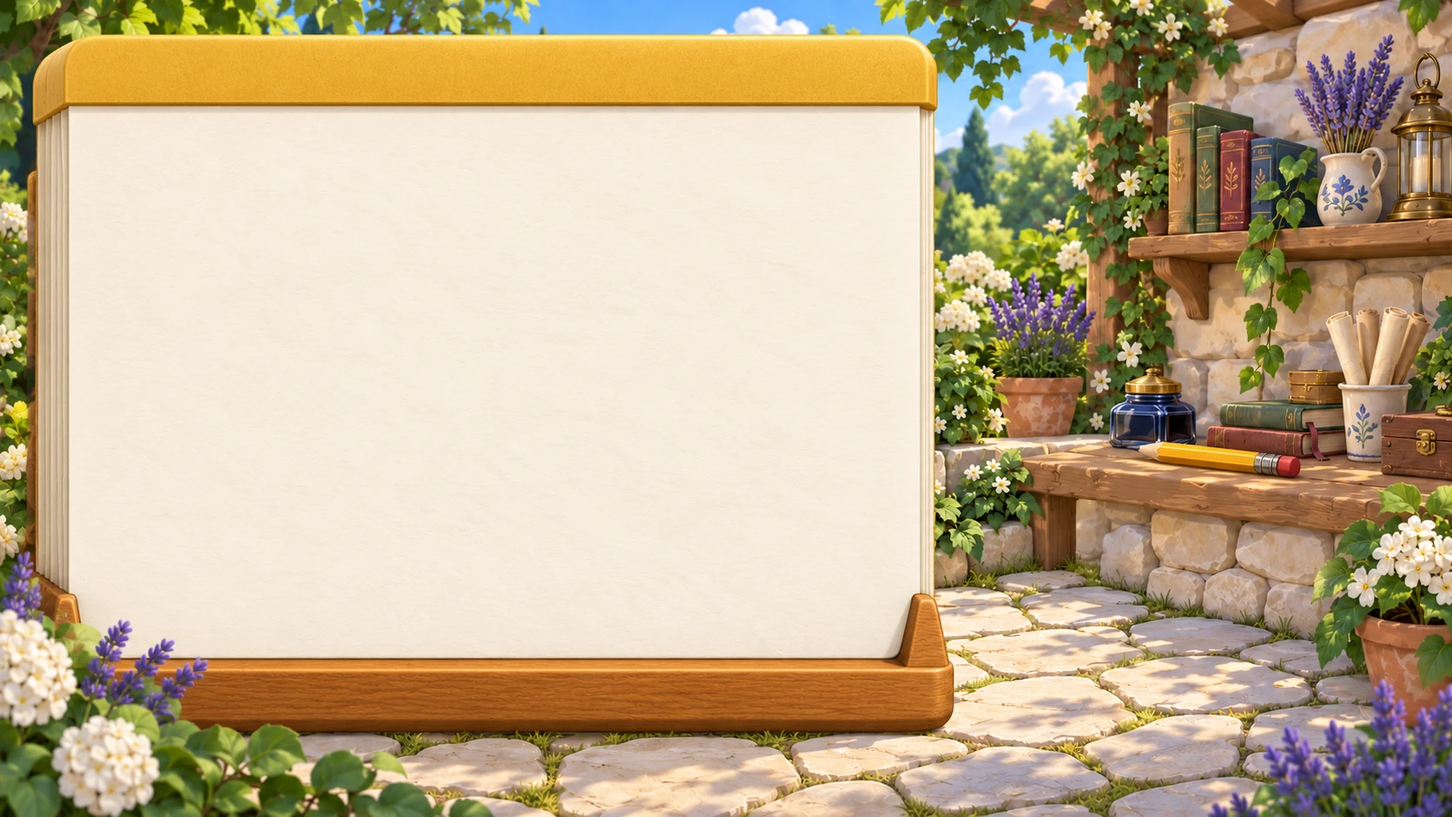
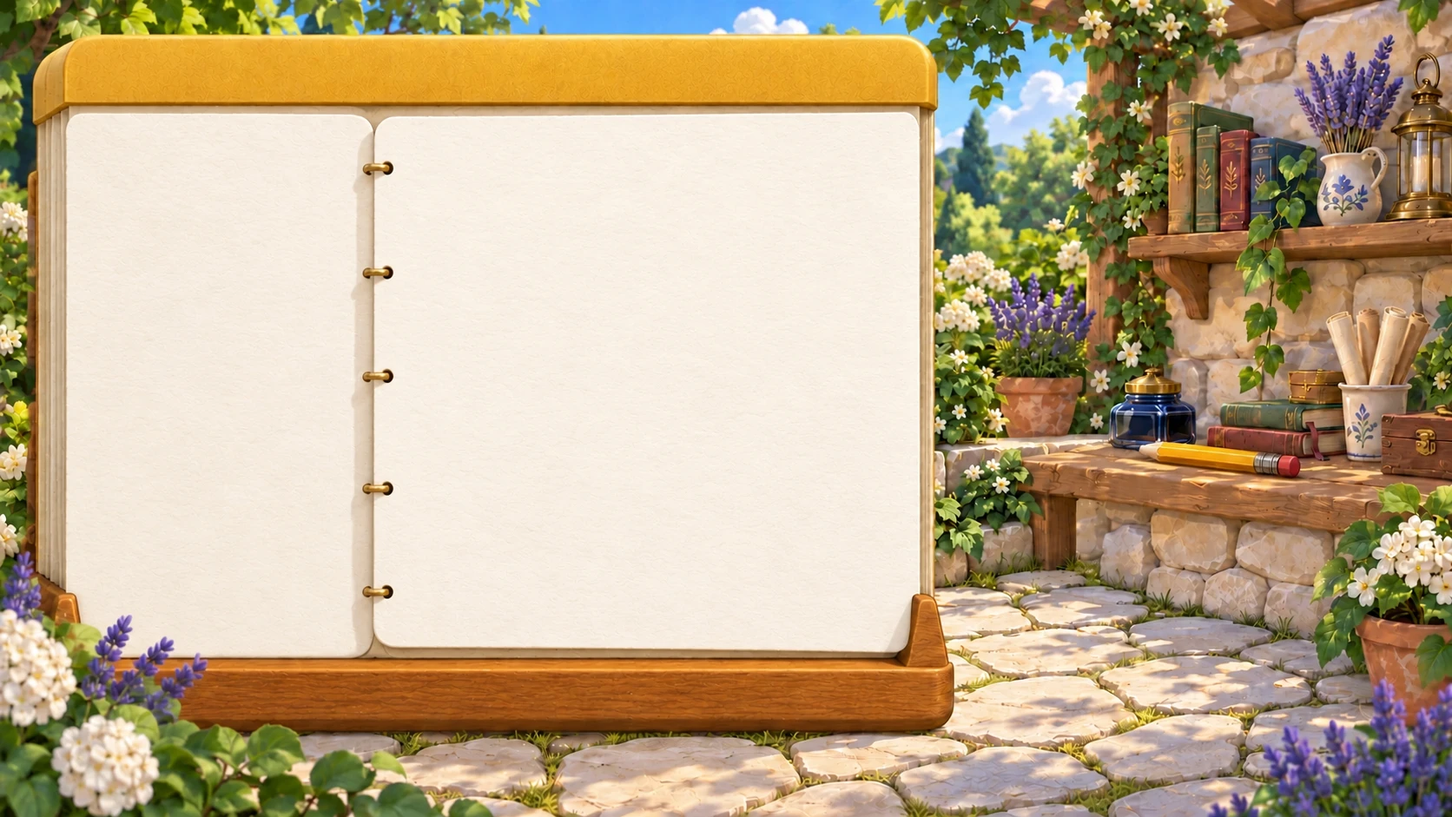
Match Notes applet to the Village notebook concept

diff --git a/ui/applets/apple-notes/open.ts b/ui/applets/apple-notes/open.ts
@@ -1,0 +1,65 @@
+import {node,uiIcon} from '../../components/index.ts';
+
+/** Notes owns only the notebook interaction. The host supplies saved originals and its safe Markdown renderer. */
+export interface NotesActions {
+ read(item:any):Promise<{text:string;title?:string}>;
+ renderBody(text:string,title:string):HTMLElement;
+ create():void;
+ selected?(item:any,original:{text:string;title?:string},explicit:boolean):void;
+}
+type NotebookState={query:string;folder:string;selected:string};
+const notebooks=new WeakMap<object,NotebookState>();
+const folderOf=item=>String(item.record?.folder||item.record?.list||'Notes');
+const plain=value=>String(value||'').replace(/[#*_`>]/g,'').replace(/\s+/g,' ').trim();
+function dateOf(item){const value=item.record?.modifiedAt||item.record?.updatedAt;if(!value)return '';const date=new Date(/^\d{4}-\d{2}-\d{2}$/.test(String(value))?value+'T12:00:00':value);return Number.isNaN(+date)?'':date.toLocaleDateString(undefined,{month:'short',day:'numeric',year:'numeric'});}
+function icon(name:string){const span=node('span','notes-glyph');span.innerHTML=uiIcon(name);return span;}
+function control(label:string,action:()=>void,glyph?:string){const b=node('button','notes-control');b.type='button';b.title=label;b.setAttribute('aria-label',label);if(glyph)b.append(icon(glyph));else b.textContent=label;b.onclick=action;return b;}
+
+export function renderNotesOpen(panel:HTMLElement,items:any[],value:any,owner:object,pick:(item:any)=>void){
+ const state=notebooks.get(owner)||{query:'',folder:'',selected:''};notebooks.set(owner,state);
+ const actions:NotesActions|undefined=value?.notes;
+ if(panel.classList.contains('applet-scene-region'))panel.classList.add('notes-host');
+ const book=node('section','notes-notebook');book.setAttribute('aria-label','Notes notebook');
+ const header=node('header','notes-header'),heading=node('h2','','Notes');heading.prepend(icon('book'));
+ const search=node('input','notes-search') as HTMLInputElement;search.type='search';search.placeholder='Search notes…';search.setAttribute('aria-label','Search notes');search.value=state.query;
+ const searchBox=node('label','notes-searchbox');searchBox.append(icon('search'),search);
+ header.append(heading,searchBox);if(actions?.create)header.append(control('New note with Fox',()=>actions.create(),'plus'));
+ const pages=node('div','notes-pages'),left=node('aside','notes-index'),tabs=node('nav','notes-folders'),list=node('div','notes-list');
+ tabs.setAttribute('aria-label','Note folders');list.setAttribute('aria-label','Notes');left.append(tabs,list);
+ const right=node('section','notes-page');right.setAttribute('aria-label','Selected note');pages.append(left,right);book.append(header,pages);panel.append(book);
+ let serial=0,filtered:any[]=[];
+ const folders=[...new Set(items.map(folderOf))];if(state.folder&&!folders.includes(state.folder))state.folder='';
+ function paintTabs(){tabs.replaceChildren();for(const folder of ['',...folders]){const tab=control(folder||'All',()=>{state.folder=folder;paintTabs();paintList();});tab.setAttribute('aria-pressed',String(state.folder===folder));tabs.append(tab);}}
+ function paintList(explicit=false){
+  const query=state.query.toLocaleLowerCase().trim();filtered=items.filter(item=>(!state.folder||folderOf(item)===state.folder)&&(!query||[item.title,item.summary,item.context,item.record?.text,folderOf(item)].some(v=>String(v||'').toLocaleLowerCase().includes(query))));
+  list.replaceChildren();if(!filtered.some(item=>item.id===state.selected))state.selected=filtered[0]?.id||'';
+  for(const item of filtered){const row=control(item.title,()=>{state.selected=item.id;book.dataset.reading='true';paintList(true);const focus=left.getClientRects().length?list.querySelector<HTMLButtonElement>('[aria-pressed=true]'):right.querySelector<HTMLButtonElement>('.notes-back');focus?.focus({preventScroll:true});});row.replaceChildren();row.className='notes-row';row.dataset.itemId=item.id;row.setAttribute('aria-pressed',String(item.id===state.selected));
+   const badge=node('span','notes-note-stamp');badge.append(icon('file'));badge.setAttribute('aria-hidden','true');
+   const copy=node('span','notes-note-copy');copy.append(node('strong','',item.title),node('span','notes-snippet',plain(item.summary||item.record?.text||item.context)||folderOf(item)),node('small','',dateOf(item)||folderOf(item)));
+   row.append(badge,copy);if(item.attention){const mark=node('span','notes-unread');mark.setAttribute('aria-label','Needs attention');row.append(mark);}list.append(row);
+  }
+  if(!filtered.length)list.append(node('p','notes-empty',items.length?'No matching notes.':value?.reading?'Reading notes…':value?.connected?'Your notebook is ready.':'Connect Notes with Fox to see your notes.'));
+  void paintPage(filtered.find(item=>item.id===state.selected),explicit);
+ }
+ async function paintPage(item,explicit=false){
+  const request=++serial;right.replaceChildren();right.dataset.open=String(!!item);
+  if(!item){right.append(node('p','notes-empty',value?.error||(items.length?'Try another folder or search.':'Select a note to read it here.')));return;}
+  const back=control('All notes',()=>{right.dataset.open='false';book.dataset.reading='false';},'back');back.classList.add('notes-back');
+  const meta=node('div','notes-page-meta');meta.append(back,node('time','',dateOf(item)));
+  const title=node('h3','notes-title',item.record?.title||item.title),body=node('div','notes-prose');body.setAttribute('aria-live','polite');
+  const footer=node('footer','notes-footer'),tools=node('div','notes-tools'),copy=control('Copy note',()=>{},'file');copy.disabled=true;
+  const open=control('Open original',()=>pick(item),'book');open.append(node('span','','Original'));copy.append(node('span','','Copy'));tools.append(open,copy);footer.append(tools,node('span','notes-folder-tag',folderOf(item)));
+  right.append(meta,title,body,footer);
+  body.append(node('p','notes-status','Reading note…'));
+  try{
+   const original=actions?.read?await actions.read(item):{text:item.record?.text||item.summary||item.context||'',title:item.title};
+   if(request!==serial||!book.isConnected)return;if(typeof original?.text!=='string')throw Error('This note is unavailable.');
+   body.replaceChildren();if(actions?.renderBody)body.append(actions.renderBody(original.text,original.title||item.title));else body.append(node('div','notes-plain',original.text));
+   if(!original.text.trim())body.append(node('p','notes-status','This note is empty.'));
+   copy.disabled=false;copy.onclick=async()=>{try{await navigator.clipboard.writeText(original.text);copy.title='Copied';copy.setAttribute('aria-label','Copied');}catch{copy.title='Copy unavailable — select the note text to copy';copy.setAttribute('aria-label',copy.title);}};
+   if(right.getClientRects().length)actions?.selected?.(item,original,explicit);
+  }catch(error){if(request!==serial||!book.isConnected)return;body.replaceChildren(node('p','notes-status',error.message||'Could not read this note.'),control('Try again',()=>void paintPage(item,explicit)));}
+ }
+ search.oninput=()=>{state.query=search.value;paintList();};paintTabs();paintList();
+ return items;
+}

diff --git a/ui/applets/apple-notes/open.css b/ui/applets/apple-notes/open.css
@@ -1,0 +1,66 @@
+/* Only Notes: the theme supplies the paper, binding and surroundings. HTML supplies live ink and controls. */
+.notes-host{min-width:0;min-height:0;height:100%;container-type:size}
+.applet-scene .notes-host{padding:0;gap:0;overflow:hidden;border-radius:0;background:none}
+.notes-notebook{height:100%;display:flex;flex-direction:column;min-height:0;color:var(--scene-ink,#493821);font:400 clamp(13px,2cqi,20px)/1.4 var(--scene-display-font,Georgia,serif)}
+.notes-notebook button,.notes-notebook input{font:inherit;color:inherit}
+.notes-notebook button{cursor:pointer}
+.notes-notebook button:focus-visible,.notes-notebook input:focus-visible{outline:2px solid var(--scene-focus,#647342);outline-offset:2px}
+.notes-header{height:11.5%;flex:none;display:flex;align-items:center;gap:1.4%;padding:0 1.5% 1.1%;box-sizing:border-box}
+.notes-notebook .notes-header h2{margin:0 auto 0 0;display:flex;gap:.35em;align-items:center;font:600 clamp(23px,4.4cqi,44px)/1 var(--scene-display-font,Georgia,serif)}
+.notes-glyph{display:inline-flex;align-items:center;justify-content:center;flex:none}
+.notes-glyph svg{width:1.15em;height:1.15em}
+.notes-header h2 .notes-glyph{font-size:.8em;color:var(--scene-accent,#697643)}
+.notes-searchbox{display:flex;align-items:center;gap:.4em;width:29%;min-width:0;padding:.3em .6em;border:1px solid var(--scene-line,#c5ae82);border-radius:2em;background:var(--scene-control,#fcf3df);box-shadow:0 2px 3px #49382130,inset 0 1px 2px #ffffffa0}
+.notes-search{width:100%;min-width:0;padding:0;border:0!important;outline-offset:4px;background:transparent!important;box-shadow:none!important}
+.notes-search::placeholder{color:var(--scene-muted,#837457)}
+.notes-notebook .notes-control{display:inline-flex;align-items:center;justify-content:center;padding:.3em .6em;min-height:1.9em;border:1px solid var(--scene-line,#c5ae82);border-radius:.55em;background:var(--scene-control,#fcf3df);box-shadow:0 2px 2px #49382122,inset 0 1px 1px #fff9}
+.notes-notebook .notes-control:hover{filter:brightness(.97)}
+.notes-notebook .notes-control:disabled{opacity:.45;cursor:default}
+.notes-header>.notes-control{font-size:1.25em}
+.notes-pages{flex:1;min-height:0;display:grid;grid-template-columns:35.7% minmax(0,1fr);gap:1.5%}
+.notes-index{min-width:0;min-height:0;display:flex;flex-direction:column;padding:1.6% 3% 4%;box-sizing:border-box}
+.notes-folders{display:flex;flex:none;gap:.3em;overflow:auto;scrollbar-width:thin;padding:.35em .1em .55em}
+.notes-folders .notes-control{white-space:nowrap;font-size:.9em;flex:none}
+.notes-folders .notes-control[aria-pressed=true]{background:color-mix(in srgb,#eeb94b 65%,var(--scene-control,#fcf3df));border-color:#c69c45}
+.notes-list{overflow:auto;min-height:0;scrollbar-width:thin;padding-right:.25em}
+.notes-notebook .notes-row{position:relative;display:flex;align-items:center;gap:.7em;width:100%;padding:.6em .45em;text-align:left;border:0;border-bottom:1px solid var(--scene-line,#d4c7ab);border-radius:0;background:none;box-shadow:none}
+.notes-notebook .notes-row[aria-pressed=true]{border:1px solid #d9bb72;border-radius:.75em;background:color-mix(in srgb,#f2cb68 36%,transparent);box-shadow:inset 0 1px 2px #fff8,0 1px 3px #7d5f2420}
+.notes-note-stamp{display:grid;place-items:center;width:2.8em;height:3em;flex:none;border:1px solid var(--scene-line,#d4c7ab);border-radius:.4em;color:var(--scene-accent,#6c7948);background:color-mix(in srgb,var(--scene-control,#f9f1db) 50%,transparent)}
+.notes-note-stamp .notes-glyph{font-size:1.55em}
+.notes-note-copy{display:flex;flex-direction:column;min-width:0}
+.notes-note-copy strong{font-weight:500;line-height:1.2;overflow:hidden;text-overflow:ellipsis;white-space:nowrap}
+.notes-snippet,.notes-note-copy small{font-size:.83em;color:var(--scene-muted,#837457);white-space:nowrap;overflow:hidden;text-overflow:ellipsis}
+.notes-unread{position:absolute;right:.2em;top:.6em;width:.32em;height:.32em;border-radius:50%;background:var(--scene-accent,#6c7948)}
+.notes-page{display:flex;flex-direction:column;min-width:0;min-height:0;padding:2.1% 4.5% 3.4% 5%;box-sizing:border-box;overflow:hidden}
+.notes-page-meta{display:flex;justify-content:flex-end;flex:none;color:var(--scene-muted,#837457);font-size:.82em;min-height:1.4em}
+.notes-title{font:600 clamp(22px,4.5cqi,47px)/1.12 var(--scene-display-font,Georgia,serif);margin:.12em 0 .35em;overflow-wrap:anywhere;flex:none;max-height:2.3em;overflow:auto}
+.notes-prose{flex:1;overflow:auto;min-height:0;scrollbar-width:thin;padding-right:.4em;overflow-wrap:anywhere}
+.notes-notebook .notes-prose .notion-prose{font:inherit;color:inherit;max-width:none;padding:0;margin:0}
+.notes-prose :is(p,ul,ol){margin:.4em 0 .8em;line-height:1.5}
+.notes-prose :is(h1,h2,h3){font-family:var(--scene-display-font,Georgia,serif);color:inherit;font-size:1.3em;line-height:1.25}
+.notes-prose :is(h1,h2,h3):first-child{margin-top:0}
+.notes-prose blockquote{margin:.5em 0;padding:0 0 0 .7em;border-left:2px solid var(--scene-line,#d4c7ab);font-style:italic;color:var(--scene-accent,#6c7948)}
+.notes-prose img{max-width:100%;height:auto;border-radius:.4em}
+.notes-prose pre{white-space:pre-wrap;overflow-wrap:anywhere;font-size:.85em}
+.notes-prose table{max-width:100%;font-size:.85em}
+.notes-prose input[type=checkbox]{accent-color:var(--scene-accent,#6c7948)}
+.notes-plain{white-space:pre-wrap}
+.notes-footer{display:flex;align-items:center;justify-content:space-between;gap:.4em;flex:none;margin-top:.7em;font-size:.85em}
+.notes-tools{display:flex;gap:.4em}.notes-tools .notes-control{gap:.35em}
+.notes-folder-tag{max-width:50%;overflow:hidden;text-overflow:ellipsis;white-space:nowrap;padding:.2em .65em;border-radius:2em;background:var(--scene-accent,#7b8752);color:var(--scene-accent-ink,#fff9e9);box-shadow:0 2px 3px #49382120}
+.notes-empty,.notes-status{color:var(--scene-muted,#837457);margin:1em .4em}
+.notes-notebook .notes-back{display:none}
+/* Compact scenes become readable single-page notebooks rather than shrinking the ink. */
+@container (max-width:540px){
+ .notes-header{height:auto;min-height:58px;padding:6px}.notes-notebook .notes-header h2{font-size:24px}.notes-searchbox{width:43%}
+ .notes-pages{grid-template-columns:1fr}.notes-index{padding:4px 8px}.notes-page{display:none;padding:12px}
+ .notes-notebook[data-reading=true] .notes-index{display:none}.notes-notebook[data-reading=true] .notes-page{display:flex}
+ .notes-notebook .notes-back{display:inline-flex;margin-right:auto}.notes-page-meta{align-items:center}.notes-title{font-size:28px}
+ .notes-note-copy strong{white-space:normal}.notes-note-stamp{width:34px;height:38px}
+}
+
+.notes-prose li:has(>input[type=checkbox]){list-style:none;margin:.5em 0}.notes-prose ul:has(input[type=checkbox]){padding-left:0}.notes-prose input[type=checkbox]{width:1em;height:1em;margin:0 .6em 0 0;vertical-align:middle;opacity:1}
+
+/* World typography sets fonts directly on descendants; keep that from flattening Notes typography. */
+.notes-notebook :where(button,input,p,span,strong,small,time,div,section,article,nav,header,h1,h2,h3,li,td,th,a,label){font-family:inherit}
+.notes-notebook .notes-prose p{font-size:inherit}

diff --git a/scripts/applet-stage-check.ts b/scripts/applet-stage-check.ts
@@ -31,8 +31,8 @@ await withBrowser(fileAccess,async browser=>{
   assert.equal(app.fullView.kind,'scene',key+' declares an in-world Open stage');
   await page.evaluate(id=>location.hash='object='+id,id);
   await page.waitForFunction(id=>document.querySelector<HTMLElement>('#notionWorld').sceneMetrics.presentation.stage&&document.querySelector<HTMLElement>('#notionWorld').sceneMetrics.presentation.id===id,id);
-  await page.waitForFunction(count=>document.querySelectorAll('.pixi-stage-item,.home-leaf,.mail-letter').length===count,items).catch(async e=>{throw Error(key+': '+JSON.stringify(await page.evaluate(()=>({calls,stage:document.querySelector('.pixi-applet-stage')?.textContent})))+' '+e.message)});
-  const itemSelector=key==='gmail'?'.mail-letter':'.home-leaf';
+  await page.waitForFunction(count=>document.querySelectorAll('.pixi-stage-item,.home-leaf,.notes-row,.mail-letter').length===count,items).catch(async e=>{throw Error(key+': '+JSON.stringify(await page.evaluate(()=>({calls,stage:document.querySelector('.pixi-applet-stage')?.textContent})))+' '+e.message)});
+  const itemSelector=key==='gmail'?'.mail-letter':key==='apple-notes'?'.notes-row':'.home-leaf';
   const dock=await page.locator('.notion-hud').boundingBox();
   assert.ok(dock.x+dock.width/2>1280*.7,key+' places Fox on the right in Open');
   const view=await stage();
@@ -42,7 +42,7 @@ await withBrowser(fileAccess,async browser=>{
   assert.equal(view.stage.items,items,key+' exposes its saved local records');
   assert.equal(await page.locator('.pixi-applet-stage '+itemSelector).count(),items,key+' renders each record as a selectable Open item');
   assert.equal(await page.locator('#notionContent').isVisible(),false,key+' opens in the world without a website');
-  assert.equal(await page.locator(key==='gmail'?'.applet-scene[data-applet=gmail]':'.home-open-sheet').count(),1,'Open uses its painted installation');
+  assert.equal(await page.locator(key==='gmail'?'.applet-scene[data-applet=gmail]':key==='apple-notes'?'.notes-notebook':'.home-open-sheet').count(),1,'Open uses its painted installation');
   if(key==='gmail'){
    assert.equal((await stage()).deviceVisible,false,'Mail foreground uses the HTML device only');
    await page.screenshot({path:'/tmp/worldlet-gmail-open.png'});
@@ -65,16 +65,16 @@ await withBrowser(fileAccess,async browser=>{
    assert.equal(await page.locator('.home-calendar-day').count(),30);
    await page.getByRole('button',{name:'Week',exact:true}).click();
   }
-  const marks=page.locator(itemSelector+' .applet-attention');
+  const attentionSelector=key==='apple-notes'?'.notes-unread':'.applet-attention',marks=page.locator(itemSelector+' '+attentionSelector);
   assert.ok(await marks.count()>0,key+' carries attention onto individual Open items');
   assert.equal(await page.locator('.pixi-stage-item[data-curated=false] .applet-attention').count(),0,'raw records never invent attention');
-  const markBox=await marks.first().boundingBox(),itemBox=await page.locator(itemSelector+':has(.applet-attention)').first().boundingBox();
+  const markBox=await marks.first().boundingBox(),itemBox=await page.locator(itemSelector+':has('+attentionSelector+')').first().boundingBox();
   if(key==='gmail')assert.ok(markBox.x>=itemBox.x&&markBox.x+markBox.width<=itemBox.x+itemBox.width+1,'Mail attention mark stays on its letter');
   // Mail, Calendar, Notes and Reminders draw on the theme's painted scene (ui/applets/scene).
   if(['gmail','google-calendar','apple-notes','apple-reminders'].includes(key))assert.equal(await page.locator(`.applet-scene[data-applet="${key}"] .applet-scene-region[data-role=primary] ${itemSelector}`).count()>0,true,key+' draws in its scene');
   await page.mouse.move(20,40);
   await page.screenshot({path:'/tmp/worldlet-'+key+'-open.png'});
-  if(key!=='gmail'){await page.setViewportSize({width:600,height:740});await page.screenshot({path:'/tmp/worldlet-'+key+'-narrow.png'});assert.ok(await page.locator('.home-open-body').evaluate(e=>e.scrollWidth<=e.clientWidth+1),'narrow content has no horizontal overflow');await page.setViewportSize({width:1280,height:850});}
+  if(key!=='gmail'){await page.setViewportSize({width:600,height:740});await page.screenshot({path:'/tmp/worldlet-'+key+'-narrow.png'});assert.ok(await page.locator(key==='apple-notes'?'.notes-notebook':'.home-open-body').evaluate(e=>e.scrollWidth<=e.clientWidth+1),'narrow content has no horizontal overflow');await page.setViewportSize({width:1280,height:850});}
   if(key==='gmail'){
    await page.emulateMedia({reducedMotion:'no-preference'});
    await page.evaluate(()=>document.querySelector<HTMLElement>('#notionWorld').dataset.mailWorking='true');
@@ -92,6 +92,7 @@ await withBrowser(fileAccess,async browser=>{
   const browserShows=await page.evaluate(()=>calls.filter(c=>c.action==='browserShow').length);
   const selectedTitle=await page.locator(itemSelector+' strong').first().textContent();
   await page.locator(itemSelector).first().click();
+  if(key==='apple-notes'){await page.locator('.notes-prose').getByText('The complete original from this Mac.').waitFor();await page.getByRole('button',{name:'Open original',exact:true}).click();}
   if(key==='gmail')await page.locator('.mail-paper').waitFor();
   await page.getByText('The complete original from this Mac.').waitFor();
   // The narrow-window step above resizes the World back to 1280 px; the device settles on the World's next frames.

diff --git a/scripts/notes-notebook-check.ts b/scripts/notes-notebook-check.ts
@@ -1,0 +1,34 @@
+/** The real Notes view, with fictional records and a controlled asynchronous original reader. */
+import assert from 'node:assert/strict';
+import {readFile} from 'node:fs/promises';
+import {bundleScript,withBrowser,pageErrors} from './browser-test.ts';
+const css=(await Promise.all(['dist/WorldletWeb/worldlet-ui.css','ui/shell/pixi-world.css','ui/applets/scene/applet-scene.css','ui/applets/apple-notes/open.css'].map(p=>readFile(p,'utf8')))).join('\n');
+const script=await bundleScript({entryPoints:['scripts/fixtures/notes-notebook/main.ts']});
+await withBrowser(async browser=>{
+ const page=await browser.newPage({viewport:{width:1672,height:941}}),errors=pageErrors(page);
+ await page.setContent('<style>body{margin:0}#viewport{position:fixed;inset:0}'+css+'</style><div id="notionWorld" class="notion-world native-console" style="position:fixed;inset:0"><main id="viewport" class="pixi-applet-stage" data-scene="apple-notes" data-applet="apple-notes"></main></div>');await page.addScriptTag({content:script});
+ assert.ok(await page.locator('.notes-header h2').evaluate(e=>parseFloat(getComputedStyle(e).fontSize)>30),'World styles cannot shrink the notebook heading');assert.match(await page.locator('.notes-prose p').first().evaluate(e=>getComputedStyle(e).fontFamily),/Georgia/);assert.equal(await page.locator('.notes-row').count(),6);assert.deepEqual(await page.evaluate(()=>(window as any).notesFixture.acknowledged),[],'Opening the notebook does not mark unchosen notes read');assert.match(await page.locator('.notes-prose').innerText(),/Plant lavender/);
+ await page.getByRole('button',{name:'Herb Care',exact:true}).click();assert.match(await page.locator('.notes-prose').innerText(),/Water the basil/);assert.deepEqual(await page.evaluate(()=>(window as any).notesFixture.acknowledged),['note-1']);
+ await page.getByRole('button',{name:'Open original',exact:true}).click();assert.deepEqual(await page.evaluate(()=>(window as any).notesFixture.opened),['note-1']);
+ await page.getByRole('button',{name:'New note with Fox'}).click();assert.equal(await page.evaluate(()=>(window as any).notesFixture.created),1);
+ await page.getByRole('button',{name:'Ideas',exact:true}).click();assert.equal(await page.locator('.notes-row').count(),2);
+ await page.getByLabel('Search notes',{exact:true}).fill('sunny');assert.equal(await page.locator('.notes-row').count(),1);
+ await page.getByLabel('Search notes',{exact:true}).fill('does not exist');assert.match(await page.locator('.notes-list').innerText(),/No matching notes/);assert.equal(await page.locator('.notes-title').count(),0);
+ await page.getByLabel('Search notes',{exact:true}).fill('');await page.getByRole('button',{name:'All',exact:true}).click();
+ // A slow original cannot overwrite the note selected after it, nor update Fox's reading context.
+ await page.evaluate(()=>{const f=(window as any).notesFixture;f.selected=[];f.mount(f.items.slice(0,2).map(item=>({...item,record:{...item.record,text:undefined}})));});
+ await page.getByRole('button',{name:'Herb Care',exact:true}).click();
+ await page.evaluate(()=>{const f=(window as any).notesFixture;f.pending['note-1']({text:'Current original'});f.pending['note-0']({text:'Stale original'});});
+ assert.equal(await page.locator('.notes-prose').innerText(),'Current original');assert.deepEqual(await page.evaluate(()=>(window as any).notesFixture.selected),['note-1']);
+ await page.evaluate(()=>{const f=(window as any).notesFixture;f.fail=true;f.mount([{id:'failed',title:'Unavailable',record:{id:'failed'}}]);});
+ await page.getByRole('button',{name:'Try again'}).waitFor();await page.evaluate(()=>(window as any).notesFixture.fail=false);await page.getByRole('button',{name:'Try again'}).click();
+ await page.evaluate(()=>(window as any).notesFixture.pending.failed({text:'Recovered note'}));assert.equal(await page.locator('.notes-prose').innerText(),'Recovered note');
+ // A detached Notes view must not consume a late response.
+ await page.evaluate(()=>{const f=(window as any).notesFixture;f.selected=[];f.mount([{id:'late',title:'Late',record:{id:'late'}}]);document.querySelector('.notes-notebook')!.remove();f.pending.late({text:'Detached'});});
+ assert.deepEqual(await page.evaluate(()=>(window as any).notesFixture.selected),[]);
+ await page.setViewportSize({width:390,height:844});await page.evaluate(()=>(window as any).notesFixture.mount());
+ assert.equal(await page.locator('.notes-index').isVisible(),true);await page.getByRole('button',{name:'Garden Ideas',exact:true}).click();assert.equal(await page.locator('.notes-page').isVisible(),true);
+ await page.getByRole('button',{name:'All notes',exact:true}).click();assert.equal(await page.locator('.notes-index').isVisible(),true);
+ assert.ok(await page.locator('.notes-notebook').evaluate(e=>e.scrollWidth<=e.clientWidth+1),'No horizontal overflow on a phone');
+ assert.deepEqual(errors,[]);console.log('PASS Notes notebook: selection, search, folders, host actions, stale reads, retry, unmount and compact navigation');
+});

diff --git a/scripts/applet-scene-mockups.ts b/scripts/applet-scene-mockups.ts
@@ -6,11 +6,12 @@ import path from 'node:path';
 import {fileURLToPath} from 'node:url';
 import {chromium} from 'playwright';
 import sharp from 'sharp';
+import {buildNotesPreview} from './notes-notebook-preview.ts';
 const root=fileURLToPath(new URL('../',import.meta.url));
 const target='resources/styles/builtin/references/registered-scenes/mockups';
 const library=JSON.parse(await readFile(path.join(root,'ui/theme-packages/village/scene-library.json'),'utf8'));
 const entries=library.entries.filter(e=>e.collection!=='branded');assert.equal(entries.length,40);
-const sources=['scripts/fixtures/applet-scene-preview/preview.js','scripts/fixtures/applet-scene-preview/samples.js','scripts/fixtures/applet-scene-preview/samples.css','scripts/fixtures/applet-scene-preview/index.html','ui/theme-packages/village/presentation.json','resources/styles/builtin/references/registered-scenes/mockup-materials/manifest.json'];
+const sources=['scripts/fixtures/applet-scene-preview/preview.js','scripts/fixtures/applet-scene-preview/samples.js','scripts/fixtures/applet-scene-preview/samples.css','scripts/fixtures/applet-scene-preview/index.html','ui/theme-packages/village/presentation.json','resources/styles/builtin/references/registered-scenes/mockup-materials/manifest.json','ui/applets/apple-notes/open.ts','ui/applets/apple-notes/open.css','scripts/fixtures/notes-notebook/main.ts','scripts/notes-notebook-preview.ts'];
 const digest=(bytes:Buffer)=>createHash('sha256').update(bytes).digest('hex');
 const inputHashes=Object.fromEntries(await Promise.all(sources.map(async file=>[file,digest(await readFile(path.join(root,file)))])));
 const materialDirectory='resources/styles/builtin/references/registered-scenes/mockup-materials';
@@ -30,14 +31,15 @@ if(process.argv.includes('--check')){
  console.log('PASS 40 mockups match their source and output hashes');
 }else{
  const url=process.env.SCENE_PREVIEW_URL||'http://127.0.0.1:8787/output/applet-scene-preview/';
- await mkdir(path.join(root,target),{recursive:true});
+ await mkdir(path.join(root,target),{recursive:true});await buildNotesPreview(root);
  const browser=await chromium.launch({headless:true}),page=await browser.newPage({viewport:{width:1672,height:941},deviceScaleFactor:1});
  const errors:string[]=[],overflows:string[]=[],images:unknown[]=[];page.on('pageerror',e=>errors.push(e.message));page.on('response',r=>{if(r.status()>=400)errors.push(String(r.status())+' '+r.url())});
  try{for(const item of entries){
-  await page.goto(url+'?capture=1&scene='+encodeURIComponent(item.id));
-  await page.waitForFunction(id=>(window as any).scenePreview?.id===id,item.id);
+  const notes=item.id==='apple-notes';
+  await page.goto(notes?new URL('/output/notes-notebook/',url).href:url+'?capture=1&scene='+encodeURIComponent(item.id));
+  if(notes)await page.locator('.notes-prose p').first().waitFor();else await page.waitForFunction(id=>(window as any).scenePreview?.id===id,item.id);
   await page.evaluate(async()=>{await document.fonts.ready;await Promise.all([...document.images].map(i=>i.decode()));});
-  const overflow=await page.locator('.sample-scroll').evaluate(e=>({height:e.scrollHeight-e.clientHeight,width:e.scrollWidth-e.clientWidth}));
+  const overflow=await page.locator(notes?'.notes-notebook':'.sample-scroll').evaluate(e=>({height:e.scrollHeight-e.clientHeight,width:e.scrollWidth-e.clientWidth}));
   if(overflow.height>2||overflow.width>2)overflows.push(item.id+': '+JSON.stringify(overflow));
   const bytes=await sharp(await page.locator('#viewport').screenshot()).webp({quality:92}).toBuffer();
   const file=item.id+'.webp';await writeFile(path.join(root,target,file),bytes);images.push({id:item.id,title:item.title,file,sha256:digest(bytes)});

diff --git a/ui/shell/notion-world.ts b/ui/shell/notion-world.ts
@@ -1222,6 +1222,20 @@ export function mountNotionWorld(data: World, native: any) {
    }
    if(current===r.moduleId&&content.hidden)scene?.setAppStage?.(r.moduleId,appletStageData(r));
   }
+  function notesActions(){return {
+    async read(item){
+      const record=item.record||{},page=pages.get(record.noteId)||pages.get(String(item.id).replace(/^record:/,''));
+      if(data.sample)return {text:page?.markdown||page?.text||record.text||'',title:page?.title||record.title};
+      if(!native?.original)throw Error('Connect Notes to read the original.');
+      return native.original(record.sourceId||record.id);
+    },
+    renderBody:(text,title)=>renderMarkdown(text,{title,path:'original.md'}),
+    create:()=>draftRequest({request:'Help me create a new Apple Note. Ask me for its title and content, then prepare it for my confirmation.'}),
+    selected(item,original,explicit){
+      libraryReadContext='Selected Notes original. Source: '+(item.record?.sourceId||item.record?.id||item.id)+'\n'+(original.title||item.title)+'\n'+original.text.slice(0,8000);
+      if(explicit)acknowledgeAttention(item.record||item);
+    }
+  };}
   function appletStageData(r,records=[]){
     if([...HOME_NATIVE,...ORIGINAL_READERS,'voice-memos','messages'].includes(r.key)){
       const source=data.sample?records:(localStageRecords.get(r.key)||records);
@@ -1230,7 +1244,7 @@ export function mountNotionWorld(data: World, native: any) {
       // them left Mail empty under its attention mark until a refresh (#1281).
       const items=[...coreAppletItems(r.provider,r.key==='gmail'&&!data.sample?[...source,...mailIdentities.values()]:source,[...pages.values()]),...(r.key==='google-calendar'?localCalendarItems(calendarEvents):[])];
       if(r.key==='gmail'&&items.some(item=>item.attention&&item.record.sourceId&&!mailMetadata(item.record).from&&!mailIdentityReads.has(item.record.sourceId)))queueMicrotask(()=>void hydrateMailIdentity(r,items));
-      return {accountLabel:link?.label||'',sample:!!data.sample,loaded:data.sample||localStageRecords.has(r.key),reading:!!link?.reading,items,connected:!!data.sample||connectionLive(data.moduleConnections?.find(c=>c.provider===r.provider)||{}),now:Date.now(),...(r.key==='google-calendar'?{calendar:calendarActions}:{})};
+      return {accountLabel:link?.label||'',sample:!!data.sample,loaded:data.sample||localStageRecords.has(r.key),reading:!!link?.reading,items,connected:!!data.sample||connectionLive(data.moduleConnections?.find(c=>c.provider===r.provider)||{}),now:Date.now(),...(r.key==='google-calendar'?{calendar:calendarActions}:{}),...(r.key==='apple-notes'?{notes:notesActions()}:{})};
     }
     const items: any[]=[...pages.values()].filter(p=>p.worldItemId&&p.sourceProvider===r.provider).map(p=>{
       const signal=p.events?.[0]||p.activities?.[0]||{};

diff --git a/scripts/fixtures/notes-notebook/main.ts b/scripts/fixtures/notes-notebook/main.ts
@@ -1,0 +1,13 @@
+import {renderNotesOpen} from '../../../ui/applets/apple-notes/open.ts';
+import {mountAppletScene,type AppletSceneSource} from '../../../ui/applets/scene/applet-scene.ts';
+import {marked} from 'marked';
+import DOMPurify from 'dompurify';
+import presentation from '../../../ui/theme-packages/village/presentation.json';
+const garden='> A brighter, kinder garden\n\nIdeas for a colorful, cozy garden space this spring. A place to slow down, notice the little things, and enjoy the beauty right outside our door.\n\n---\n\n- [x] Plant lavender by the stone wall\n- [x] Add more daisies near the path\n- [ ] Find a rustic lantern\n- [ ] Set up a small herb corner\n- [ ] Add a bird-friendly plant\n- [ ] Take photos in bloom!';
+const rows=[['Garden Ideas','Plan for a blooming spring…','Garden',garden],['Herb Care','Watering schedule & tips','Garden','Water the basil in the morning.\n\nKeep rosemary in a sunny spot.'],['Patio Corner','A cozy reading spot','Ideas','A chair, a small table, and a good book.'],['Plant Wishlist','Lavender, hydrangea, more!','Garden','- Lavender\n- Hydrangea\n- Daisies'],['Sunny Day Notes','Little things that make…','Ideas','Leave time for a walk.'],['Compost Guide','What goes in and why','Archive','Keep the compost balanced.']];
+const items=rows.map(([title,summary,folder,text],i)=>({id:'note-'+i,title,summary,record:{id:'note-'+i,title,folder,modifiedAt:'2024-04-'+(24-i*3),text}}));
+const source=structuredClone(presentation.appletScenes['apple-notes']) as unknown as AppletSceneSource;source.background='/ui/theme-packages/village/'+source.background+'?v='+source.registration.sha256;
+const scene=mountAppletScene(document.querySelector('#viewport')!, 'apple-notes',{source});
+const owner={},fixture={items,opened:[],created:0,selected:[],acknowledged:[],pending:{},fail:false,mode:'inline',mount};
+function mount(records=items){scene.primary.element.replaceChildren();return renderNotesOpen(scene.primary.element,records,{connected:true,notes:{read:item=>typeof item.record?.text==='string'?Promise.resolve({text:item.record.text,title:item.title}):fixture.fail?Promise.reject(Error('Cannot read note')):new Promise(resolve=>{fixture.pending[item.id]=resolve;}),renderBody:(text,title)=>{const article=document.createElement('article');article.className='notion-prose';article.innerHTML=DOMPurify.sanitize(marked.parse(text) as string);const first=article.firstElementChild;if(first?.tagName==='H1'&&first.textContent===title)first.remove();return article;},create:()=>fixture.created++,selected:(item,original,explicit)=>{fixture.selected.push(item.id);if(explicit)fixture.acknowledged.push(item.id);}}},owner,item=>fixture.opened.push(item.id));}
+Object.assign(window,{notesFixture:fixture});mount();

diff --git a/scripts/text-reader-hud-check.ts b/scripts/text-reader-hud-check.ts
@@ -15,9 +15,10 @@ await withBrowser(fileAccess,async browser=>{
   // Start each Applet from the overview, not from the previous Applet's open reader.
   await page.evaluate(()=>location.hash='');await page.waitForFunction(()=>document.querySelector<any>('#notionWorld').sceneMetrics.active==='overview');
   await page.evaluate(key=>location.hash='object=app-'+key,key);
-  const item=page.locator(`.pixi-applet-stage[data-applet="${key}"] :is(.pixi-stage-item,.scene-item,.home-leaf)`).first();
+  const item=page.locator(`.pixi-applet-stage[data-applet="${key}"] :is(.pixi-stage-item,.scene-item,.home-leaf,.notes-row)`).first();
   // Use keyboard selection: Calendar's separately owned day grid can overlap its item hitbox.
   await item.focus();await item.press('Enter');
+  if(key==='apple-notes')await page.getByRole('button',{name:'Open original',exact:true}).click();
   const host=page.locator('#notionContent');await host.waitFor();
   const surface=key==='gmail'?host.locator('.mail-focus.ui-applet-surface'):host.locator(':scope[data-reader-hud=true]');
   await surface.waitFor();
@@ -53,7 +54,7 @@ await withBrowser(fileAccess,async browser=>{
  }
  // Stress the production reader shell with a long original, not a second mock UI.
  await page.evaluate(()=>location.hash='');await page.waitForFunction(()=>document.querySelector<any>('#notionWorld').sceneMetrics.active==='overview');
- await page.evaluate(()=>location.hash='object=app-apple-notes');await page.locator('.pixi-applet-stage[data-applet=apple-notes] .home-leaf').first().click();
+ await page.evaluate(()=>location.hash='object=app-apple-notes');await page.locator('.pixi-applet-stage[data-applet=apple-notes] .notes-row').first().click();await page.getByRole('button',{name:'Open original',exact:true}).click();
  await page.locator('#notionContent[data-reader-hud=true]').waitFor();
  await page.locator('.ui-reader-body .notion-prose').evaluate(e=>{for(let i=0;i<35;i++){const p=document.createElement('p');p.textContent='Long original paragraph '+i+'. Original words remain readable, with one continuous scroll area.';e.append(p);}});
  for(const size of [{width:900,height:650},{width:390,height:844}]){

diff --git a/scripts/notes-notebook-preview.ts b/scripts/notes-notebook-preview.ts
@@ -1,0 +1,11 @@
+/** A repeatable preview of the production Notes component with fictional records. */
+import {build} from 'esbuild';
+import {mkdir,writeFile} from 'node:fs/promises';
+import path from 'node:path';
+import {fileURLToPath} from 'node:url';
+export async function buildNotesPreview(root:string){
+ const output=path.join(root,'output/notes-notebook');await mkdir(output,{recursive:true});
+ await build({entryPoints:[path.join(root,'scripts/fixtures/notes-notebook/main.ts')],outfile:path.join(output,'notes.js'),bundle:true,format:'iife'});
+ await writeFile(path.join(output,'index.html'),`<!doctype html><html lang="en"><head><meta charset="utf-8"><meta name="viewport" content="width=device-width,initial-scale=1"><title>Notes · Fictional sample notebook</title><link rel="stylesheet" href="/dist/WorldletWeb/worldlet-ui.css"><link rel="stylesheet" href="/ui/shell/pixi-world.css"><link rel="stylesheet" href="/ui/applets/scene/applet-scene.css"><link rel="stylesheet" href="/ui/applets/apple-notes/open.css"><style>html,body{margin:0;width:100%;height:100%;overflow:hidden}#notionWorld{position:fixed;inset:0}#viewport{position:absolute;inset:0}</style></head><body><div id="notionWorld" class="notion-world native-console"><main id="viewport" class="pixi-applet-stage" data-scene="apple-notes" data-applet="apple-notes"></main></div><script src="notes.js"></script></body></html>`);
+}
+if(process.argv[1]&&path.resolve(process.argv[1])===fileURLToPath(import.meta.url))await buildNotesPreview(fileURLToPath(new URL('../',import.meta.url)));

diff --git a/ui/applets/home-open.ts b/ui/applets/home-open.ts
@@ -1,3 +1,4 @@
+import {renderNotesOpen} from './apple-notes/open.ts';
 import {attentionIcon} from '../attention/index.ts';
 import {node} from '../components/index.ts';
 import {renderCalendar,type CalendarState} from './google-calendar/grid.ts';
@@ -11,6 +12,7 @@ export function calendarWindow(now:number,mode:HomeOpenState['mode'],offset:numb
  return Array.from({length:count},(_,i)=>{const d=new Date(start);d.setDate(d.getDate()+i);return d;});
 }
 export function renderHomeOpen(panel,room,items,value,state:HomeOpenState,pick,redraw){
+ if(room.key==='apple-notes')return renderNotesOpen(panel,items,value,state,pick);
  const calendar=room.key==='google-calendar',notes=room.key==='apple-notes';panel.classList.add('home-open');
  panel.dataset.homeKind=calendar?'calendar':notes?'notes':'reminders';panel.dataset.calendarMode=state.mode;
  const sheet=node('section','home-open-sheet'),header=node('header','home-open-header'),title=node('h2','',room.title);panel.append(sheet);sheet.append(header);header.append(title);

diff --git a/scripts/sample-world-check.ts b/scripts/sample-world-check.ts
@@ -77,7 +77,7 @@ await withBrowser(fileAccess,async browser=>{
    const stage=page.locator(`.pixi-applet-stage[data-applet="${app.key}"]`);await stage.waitFor();
    assert.ok(authored.has(app.key),app.key+' has authored sample notes');
    // Software WebGL on a shared CI runner can take well over ten seconds for one Applet's first records.
-   const rendered=await stage.locator('.pixi-stage-item,.scene-item,.home-leaf,.meetings-call,.mail-letter').first().waitFor({timeout:30000}).then(()=>true,()=>false);
+   const rendered=await stage.locator('.pixi-stage-item,.scene-item,.home-leaf,.notes-row,.meetings-call,.mail-letter').first().waitFor({timeout:30000}).then(()=>true,()=>false);
    assert.ok(rendered,app.key+' exposes sample records in its authored Open; stage: '+(await stage.evaluate(e=>e.outerHTML.slice(0,600))));
    assert.equal(await stage.locator('.pixi-open-empty').count(),0,app.key+' shows no empty Open');
    assert.equal(await page.locator('#notionContent').isVisible(),false);

diff --git a/scripts/build-ui.ts b/scripts/build-ui.ts
@@ -8,7 +8,7 @@ import {BUILTIN_STYLE} from '../ui/components/style.ts';
 // Each feature keeps its own styles: Fox's panel and the Journal sit in the states layer; the Attention card,
 // Fox's conversation card and the artifact card (built on the Attention card's parts) load last, in this order.
 export const STATE_STYLES=['ui/companion/companion-panel.css','ui/artifacts/journal.css'];
-export const CARD_STYLES=['ui/attention/attention-preview.css','ui/companion/companion-dialogue.css','ui/artifacts/artifact-card.css'];
+export const CARD_STYLES=['ui/attention/attention-preview.css','ui/companion/companion-dialogue.css','ui/artifacts/artifact-card.css','ui/applets/apple-notes/open.css'];
 export async function buildUI(root,output){
  // The bundled theme package's assets (theme-assets/<id>/).
  await buildThemeSource(root,output);
